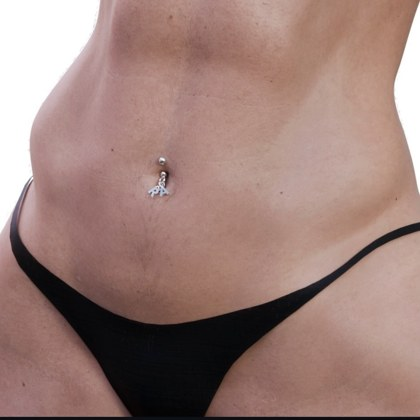
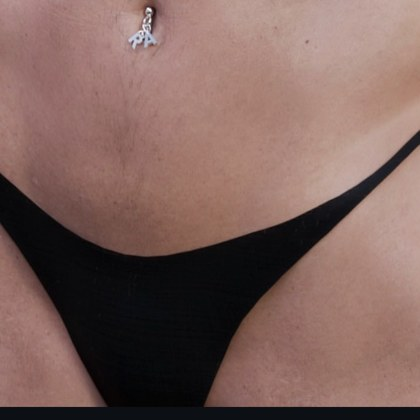
Agostovs: split each source into separate chest and legs tiles (8 total)
Claude-Session: https://claude.ai/code/session_01KpK15JBwdYswaBcDwCs1qe

diff --git a/index.html b/index.html
@@ -540,8 +540,11 @@ const CREATOR_TILES=[
   'sasha.from.paris_torso_2',
   'agostovs_legs_1',
   'agostovs_legs_2',
+  'agostovs_legs_3',
   'agostovs_torso_2',
   'agostovs_torso_3',
+  'agostovs_torso_4',
+  'agostovs_torso_5',
   'agostovs_torso_1',
   'bruterdam_legs_1',
   'bruterdam_legs_2',
